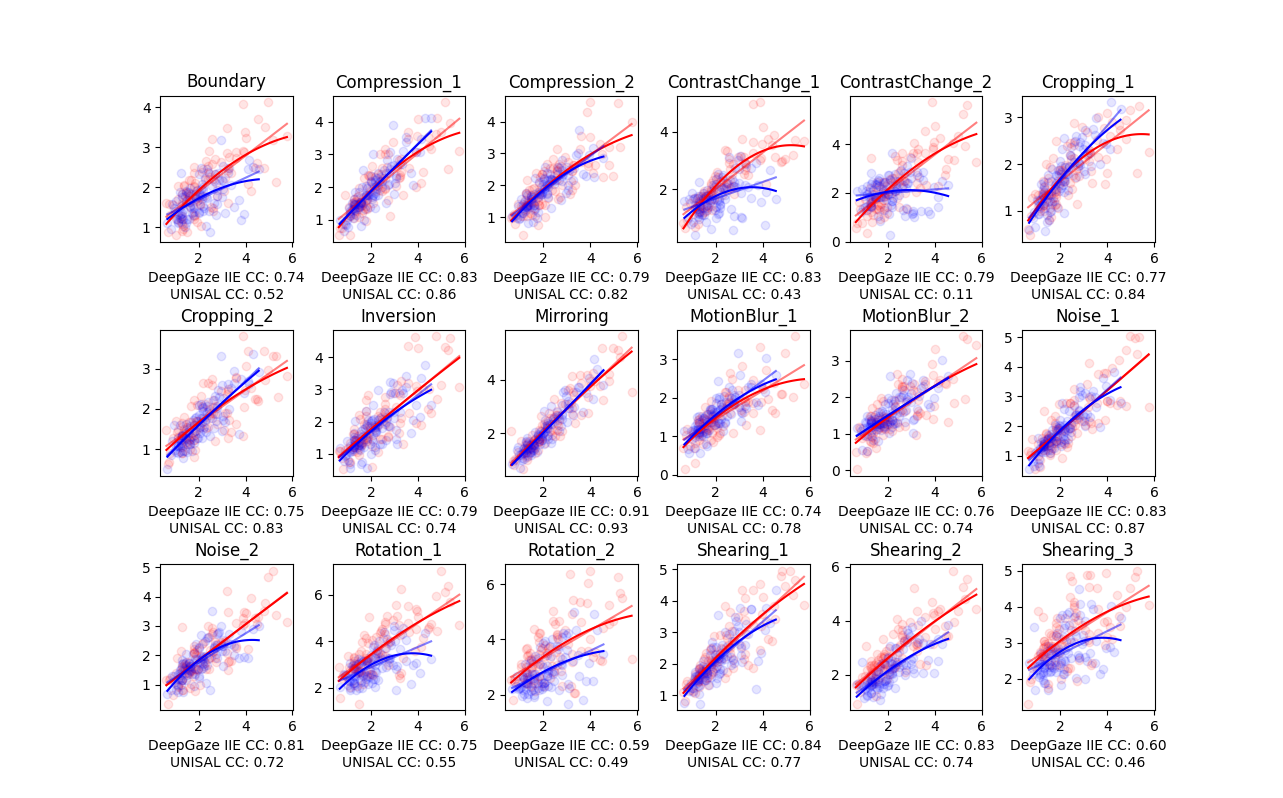
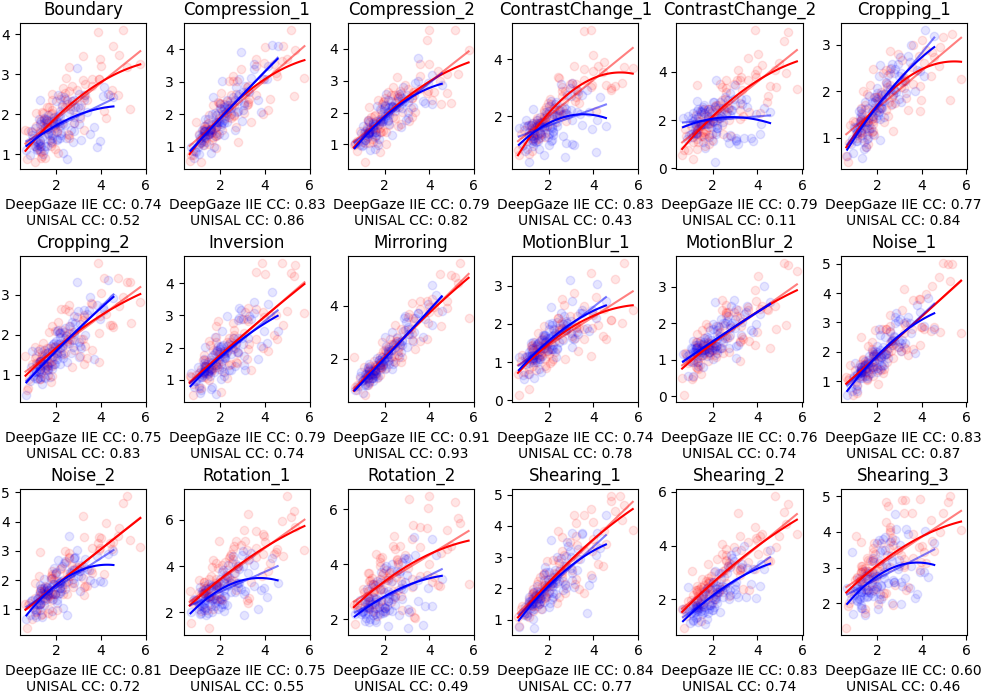
Polish figures with deepgaze data; clarify difference between real map and gold standard; add more related work

diff --git a/evaluation/visualization.py b/evaluation/visualization.py
@@ -145,24 +145,24 @@ def performance_degradation(csv_file: str, models: list[str], model_names: list[
             elif model_name == 'real':
                 real_performance[transformation] = value
     plots = [
-        ('Reference', 'Boundary'),
-        ('Reference', 'Compression_1', 'Compression_2'),
-        ('Reference', 'ContrastChange_1', 'ContrastChange_2'),
-        ('Reference', 'Cropping_1', 'Cropping_2'),
-        ('Reference', 'Inversion'),
-        ('Reference', 'Mirroring'),
-        ('Reference', 'MotionBlur_1', 'MotionBlur_2'),
-        ('Reference', 'Noise_1', 'Noise_2'),
-        ('Reference', 'Rotation_1', 'Rotation_2'),
-        ('Reference', 'Shearing_1', 'Shearing_2', 'Shearing_3'),
+        ('Boundary', 'Reference', 'Boundary'),
+        ('Compression', 'Reference', 'Compression_1', 'Compression_2'),
+        ('Contrast Change', 'Reference', 'ContrastChange_1', 'ContrastChange_2'),
+        ('Cropping', 'Reference', 'Cropping_1', 'Cropping_2'),
+        ('Inversion', 'Reference', 'Inversion'),
+        ('Mirroring', 'Reference', 'Mirroring'),
+        ('Motion Blur', 'Reference', 'MotionBlur_1', 'MotionBlur_2'),
+        ('Noise', 'Reference', 'Noise_1', 'Noise_2'),
+        ('Rotation', 'Reference', 'Rotation_1', 'Rotation_2'),
+        ('Shearing', 'Reference', 'Shearing_1', 'Shearing_2', 'Shearing_3'),
     ]
     for index, plot in enumerate(plots):
         row = index // columns
         column = index % columns
-        x = [ i for i in range(len(plot)) ]
-        y = [[ model_performance[model][transformation] for transformation in plot ] for model in models ]
-        centerbias_y = [ centerbias_performance[transformation] for transformation in plot ]
-        real_y = [ real_performance[transformation] for transformation in plot ]
+        x = [ i for i in range(len(plot) - 1) ]
+        y = [[ model_performance[model][transformation] for transformation in plot[1:] ] for model in models ]
+        centerbias_y = [ centerbias_performance[transformation] for transformation in plot[1:] ]
+        real_y = [ real_performance[transformation] for transformation in plot[1:] ]
         color_index = 0
         for values in y:
             axes[row, column].plot(x, values, color=colors[color_index])
@@ -176,10 +176,10 @@ def performance_degradation(csv_file: str, models: list[str], model_names: list[
         color_index += 1
         axes[row, column].plot(x, real_y, color=colors[color_index])
         axes[row, column].fill_between(x, centerbias_y, real_y, color='red', alpha=0.2)
-        axes[row, column].set_xticks(x, plot, rotation=70)
+        axes[row, column].set_xticks(x, plot[1:], rotation=25)
         axes[row, column].set_xlabel(losses)
-        axes[row, column].set_title(f'{plot[0]} to {plot[-1]}')
-    pyplot.subplots_adjust(wspace=0.3, hspace=0.6)
+        axes[row, column].set_title(plot[0])
+    pyplot.subplots_adjust(wspace=0.3, hspace=0.7, bottom=0.2)
     pyplot.show()
 
 def all_performance_degradation() -> None:
@@ -270,4 +270,4 @@ def all_pairwise_correlations() -> None:
         curve=False
     )
 
-all_pairwise_correlations()
+all_performance_degradation()

diff --git a/readme.md b/readme.md
@@ -7,3 +7,7 @@ the `docs` directory in this repository.
 - Install [`uv`](https://docs.astral.sh/uv/#installation) (Python package manager)
 - To run the DeepGaze prediction code in `deepgaze_predict`, you need to add the DeepGaze github repository as a dependency using `uv pip install -e https://github.com/matthias-k/DeepGaze`
 - Run using the shell script: `sh run_experiment.sh`
+
+## TODO
+- Clean up results sections figures and captions
+- Clarify that our Gold Standard has a different computation method than Kummerer, and exists more as a reference point for current performance than a goal for potential future performance
